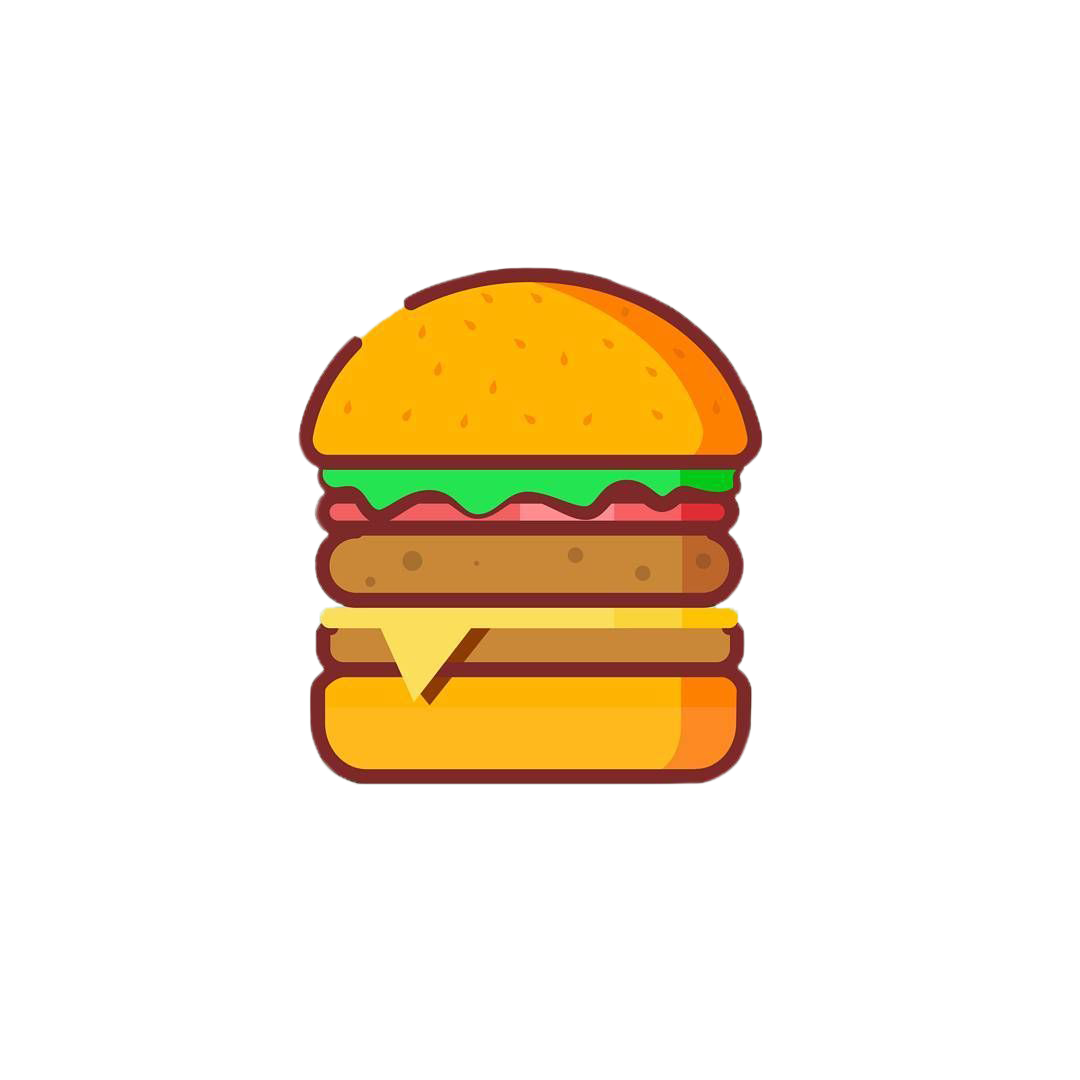
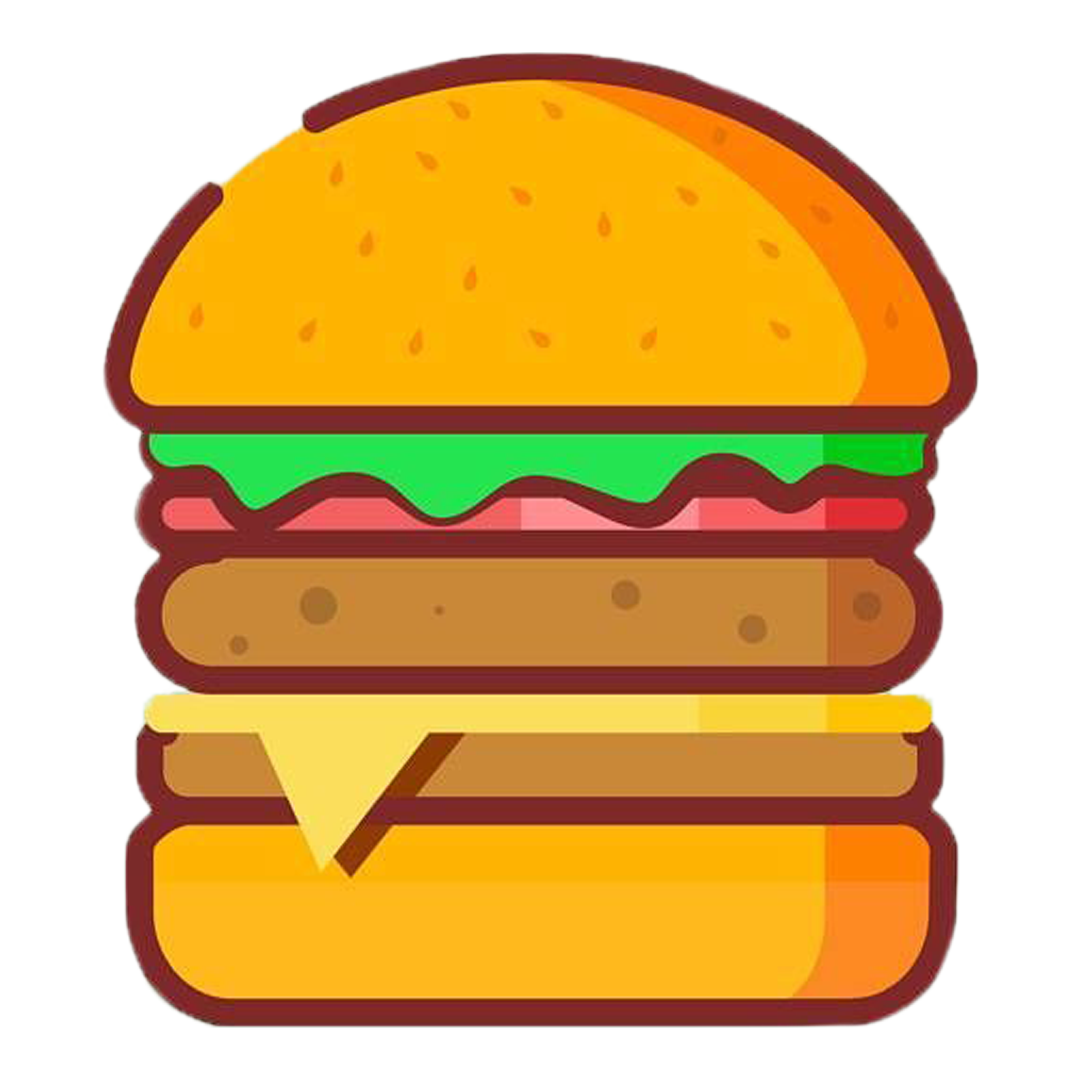
image working

diff --git a/public/assets/css/burger_style.css b/public/assets/css/burger_style.css
@@ -52,6 +52,13 @@ ul {
 #burgerName {
     margin: auto;
 }
+.burgerImage {
+    width: 20%;
+    height: 20%;
+    display: block;
+    margin-left: auto;
+    margin-right: auto;
+}
 
 .form-button {
     margin: 10px;
